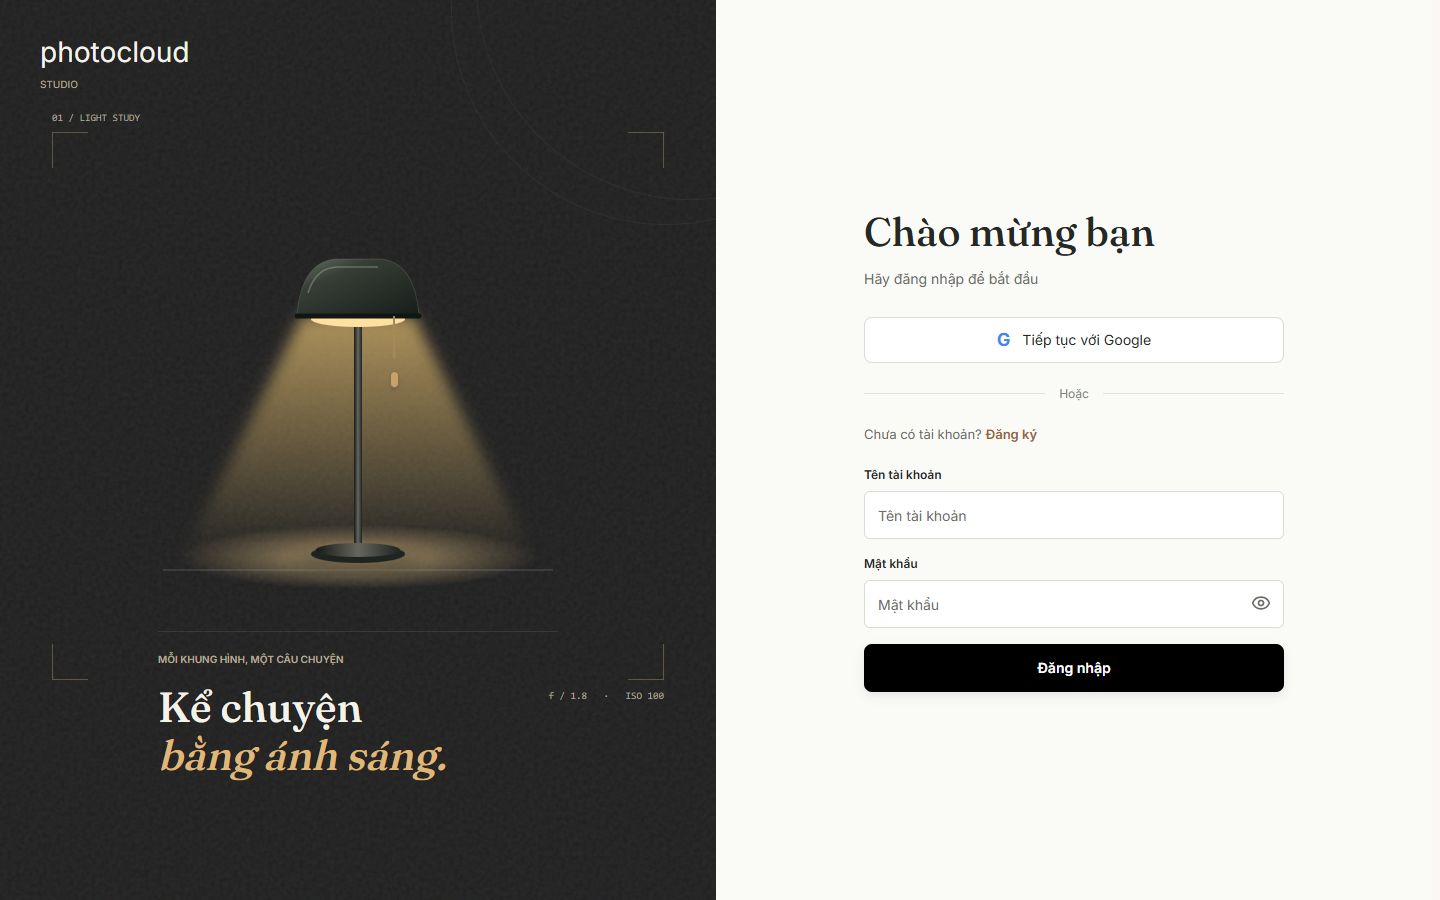
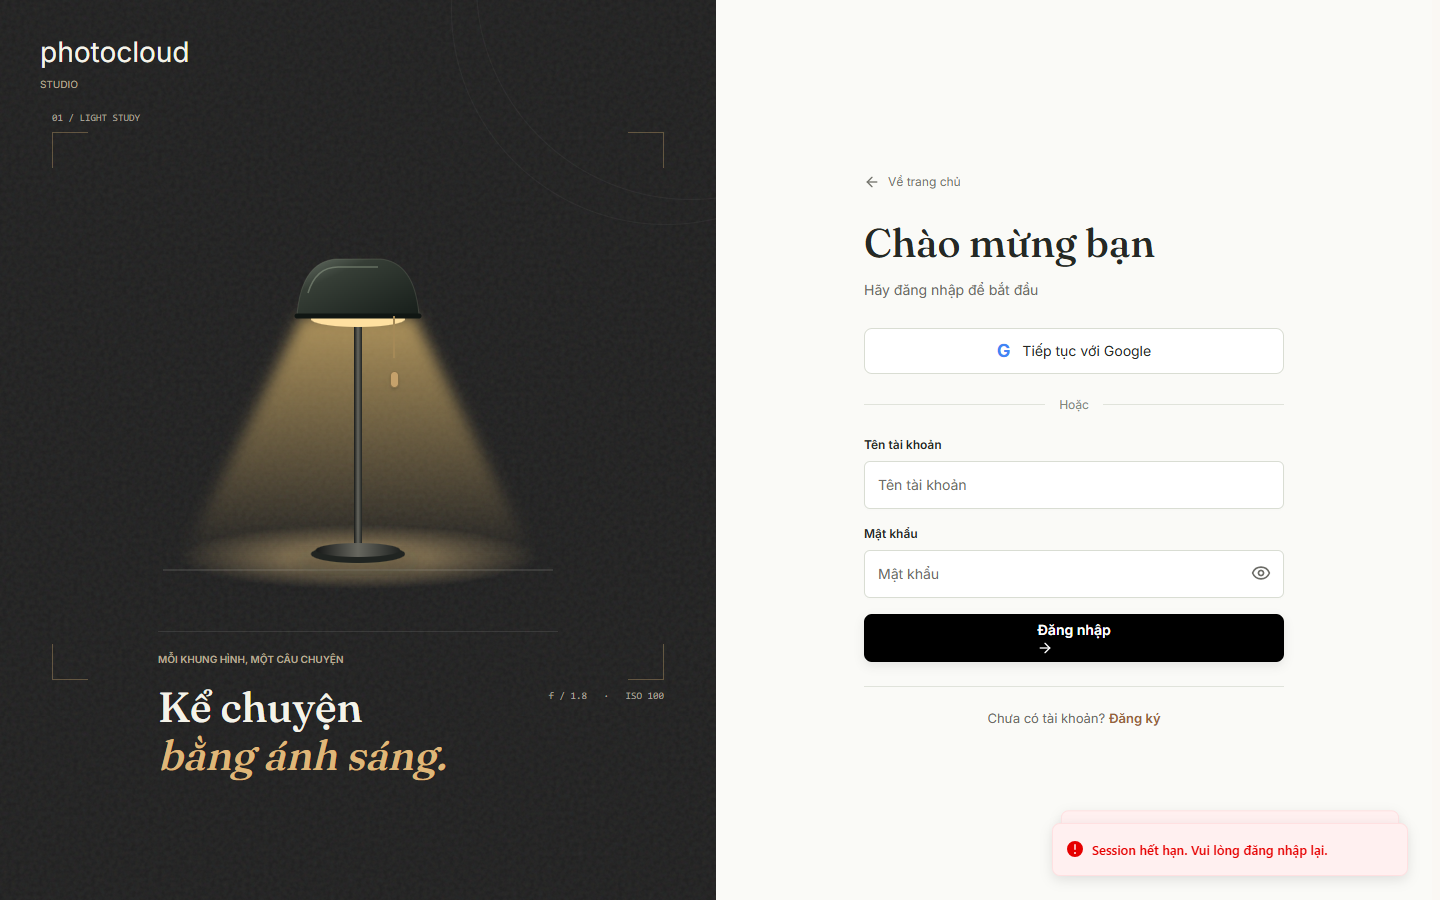
fix form signin

diff --git a/frontend/src/pages/SignInPage.tsx b/frontend/src/pages/SignInPage.tsx
@@ -5,7 +5,7 @@ import { zodResolver } from "@hookform/resolvers/zod";
 import { useAuthStore } from "@/stores/useAuthStore";
 import { Input } from "@/components/ui/input";
 import { Button } from "@/components/ui/button";
-import { Eye, EyeOff } from "lucide-react";
+import { Eye, EyeOff, ArrowLeft, ArrowRight, LoaderCircle, AlertCircle } from "lucide-react";
 import { toast } from "sonner";
 import { signInSchema, type SignInFormValue } from "@/types/forms";
 import { t } from "@/i18n";
@@ -17,6 +17,8 @@ function SignInPage() {
     const [searchParams, setSearchParams] = useSearchParams();
     const [showPassword, setShowPassword] = useState(false);
     const [isSubmitting, setIsSubmitting] = useState(false);
+    const [submitError, setSubmitError] = useState('');
+    const [capsLock, setCapsLock] = useState(false);
 
     const { register, handleSubmit, formState: { errors } } = useForm<SignInFormValue>({
         resolver: zodResolver(signInSchema),
@@ -35,6 +37,7 @@ function SignInPage() {
 
     const onSubmit = async (data: SignInFormValue) => {
         setIsSubmitting(true);
+        setSubmitError('');
         try {
             const username = data.username.trim();
             const password = data.password.trim();
@@ -45,8 +48,8 @@ function SignInPage() {
 
             await signIn(username, password);
             navigate("/");
-        } catch {
-            // Error is handled by the store
+        } catch (error: unknown) {
+            setSubmitError((error as { response?: { data?: { message?: string } } })?.response?.data?.message || t('auth.signInFailed'));
         } finally {
             setIsSubmitting(false);
         }
@@ -65,6 +68,7 @@ function SignInPage() {
 
     return (
         <AuthLayout>
+            <Link to="/" className="auth-back"><ArrowLeft size={16} /> Về trang chủ</Link>
             <h1>{t('auth.welcome')}</h1>
             <p className="auth-subtitle">{t('auth.signInToStart')}</p>
             <button type="button" className="social-btn" onClick={() => handleSocialLogin('google')}>
@@ -72,13 +76,17 @@ function SignInPage() {
             </button>
             <div className="auth-separator">{t('auth.or')}</div>
                     <form onSubmit={handleSubmit(onSubmit)} className="signin-form" aria-busy={isSubmitting}>
-                        <p className="form-switch">{t('auth.noAccount')} <Link to="/signup" className="form-link">{t('auth.signUp')}</Link></p>
+                        {submitError && <p className="auth-submit-error" role="alert"><AlertCircle size={16} />{submitError}</p>}
 
                         {/* Username */}
                         <div className="form-group">
                             <label htmlFor="username">{t('auth.username')}</label>
                             <Input
                                 autoComplete="username"
+                                autoCapitalize="none"
+                                spellCheck={false}
+                                aria-invalid={!!errors.username}
+                                aria-describedby={errors.username ? 'username-error' : undefined}
                                 type="text"
                                 id="username"
                                 placeholder={t('auth.username')}
@@ -86,7 +94,7 @@ function SignInPage() {
                                 className={errors.username ? 'error' : ''}
                             />
                             {errors.username && (
-                                <p className="error-message">{errors.username.message}</p>
+                                <p id="username-error" className="error-message">{errors.username.message}</p>
                             )}
                         </div>
 
@@ -98,21 +106,27 @@ function SignInPage() {
                                     type={showPassword ? "text" : "password"}
                                     id="password"
                                     autoComplete="current-password"
+                                    aria-invalid={!!errors.password}
+                                    aria-describedby={errors.password ? 'password-error' : undefined}
                                     placeholder={t('auth.password')}
                                     {...register('password')}
+                                    onKeyDown={event => setCapsLock(event.getModifierState('CapsLock'))}
+                                    onKeyUp={event => setCapsLock(event.getModifierState('CapsLock'))}
+                                    onBlur={event => { void register('password').onBlur(event); setCapsLock(false); }}
                                     className={errors.password ? 'error' : ''}
                                 />
                                 <button
                                     type="button"
                                     className="password-toggle"
                                     aria-label={showPassword ? "Ẩn mật khẩu" : "Hiện mật khẩu"}
+                                    aria-pressed={showPassword}
                                     onClick={() => setShowPassword(!showPassword)}
                                 >
                                     {showPassword ? <EyeOff size={20} /> : <Eye size={20} />}
                                 </button>
                             </div>
                             {errors.password && (
-                                <p className="error-message">{errors.password.message}</p>
+                                <p id="password-error" className="error-message">{errors.password.message}</p>
                             )}
                         </div>
 
@@ -122,8 +136,11 @@ function SignInPage() {
                             disabled={isSubmitting}
                         >
                             {isSubmitting ? t('auth.signingIn') : t('auth.signIn')}
+                            {isSubmitting ? <LoaderCircle size={17} className="auth-loading" /> : <ArrowRight size={17} />}
                         </Button>
+                        {capsLock && <p className="auth-caps-warning" role="status">Caps Lock đang bật</p>}
                     </form>
+            <p className="auth-switch-footer">{t('auth.noAccount')} <Link to="/signup" className="form-link">{t('auth.signUp')}</Link></p>
         </AuthLayout>
     );
 }

diff --git a/frontend/src/pages/auth/components/AuthLayout.css b/frontend/src/pages/auth/components/AuthLayout.css
@@ -82,3 +82,14 @@
 }
 @media(max-width:359px) { .auth-lamp { right:-30px; } .auth-scene-copy { width:125px; } }
 @media(prefers-reduced-motion:reduce) { .auth-lamp-light,.auth-lamp-cord { transition:none; } }
+.auth-layout .auth-back { display:inline-flex; align-items:center; gap:8px; color:#73736c; font-size:12px; text-decoration:none; margin-bottom:28px; }
+.auth-layout .auth-back:hover { color:#252525; }
+.auth-layout .auth-switch-footer { margin:24px 0 0; padding-top:22px; border-top:1px solid #e0e3db; text-align:center; font-size:13px; color:#6b6b66; }
+.auth-layout .auth-submit-error { display:flex; align-items:flex-start; gap:8px; background:#fff0ed; border:1px solid #eec5bd; border-radius:6px; padding:12px; font-size:13px; color:#9c3f36; margin:0 0 20px; overflow-wrap:anywhere; }
+.auth-layout .auth-submit-error svg { flex-shrink:0; margin-top:2px; }
+.auth-layout .continue-btn { gap:10px; }
+.auth-layout input:-webkit-autofill { -webkit-box-shadow:0 0 0 1000px #f6f6f2 inset; -webkit-text-fill-color:#252925; }
+.auth-loading { animation:auth-spin 900ms linear infinite; }
+.auth-layout .auth-caps-warning { color:#966339; font-size:12px; margin:10px 0 0; }
+@keyframes auth-spin { to { transform:rotate(360deg); } }
+@media(prefers-reduced-motion:reduce) { .auth-loading { animation:none; } }
